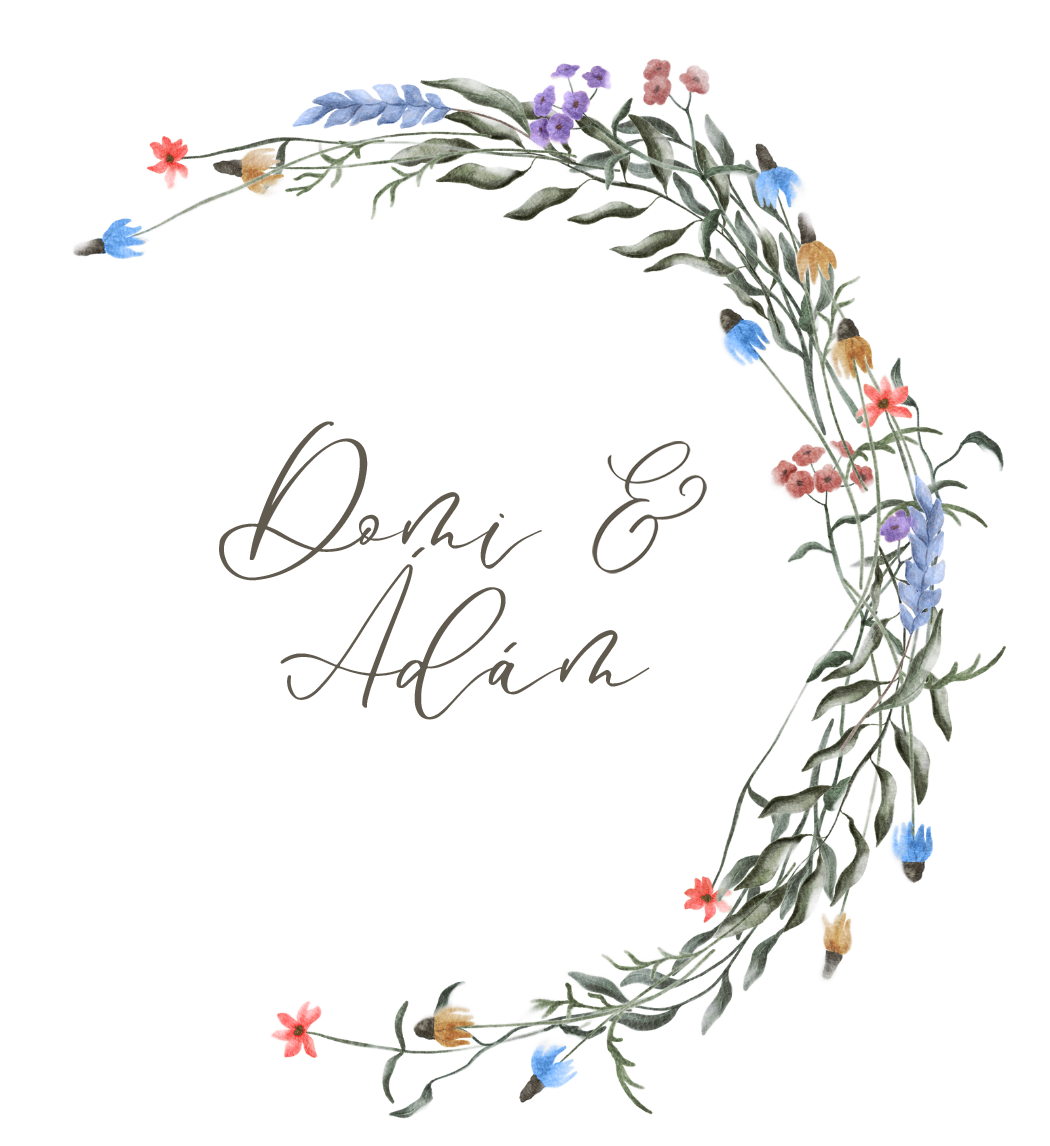
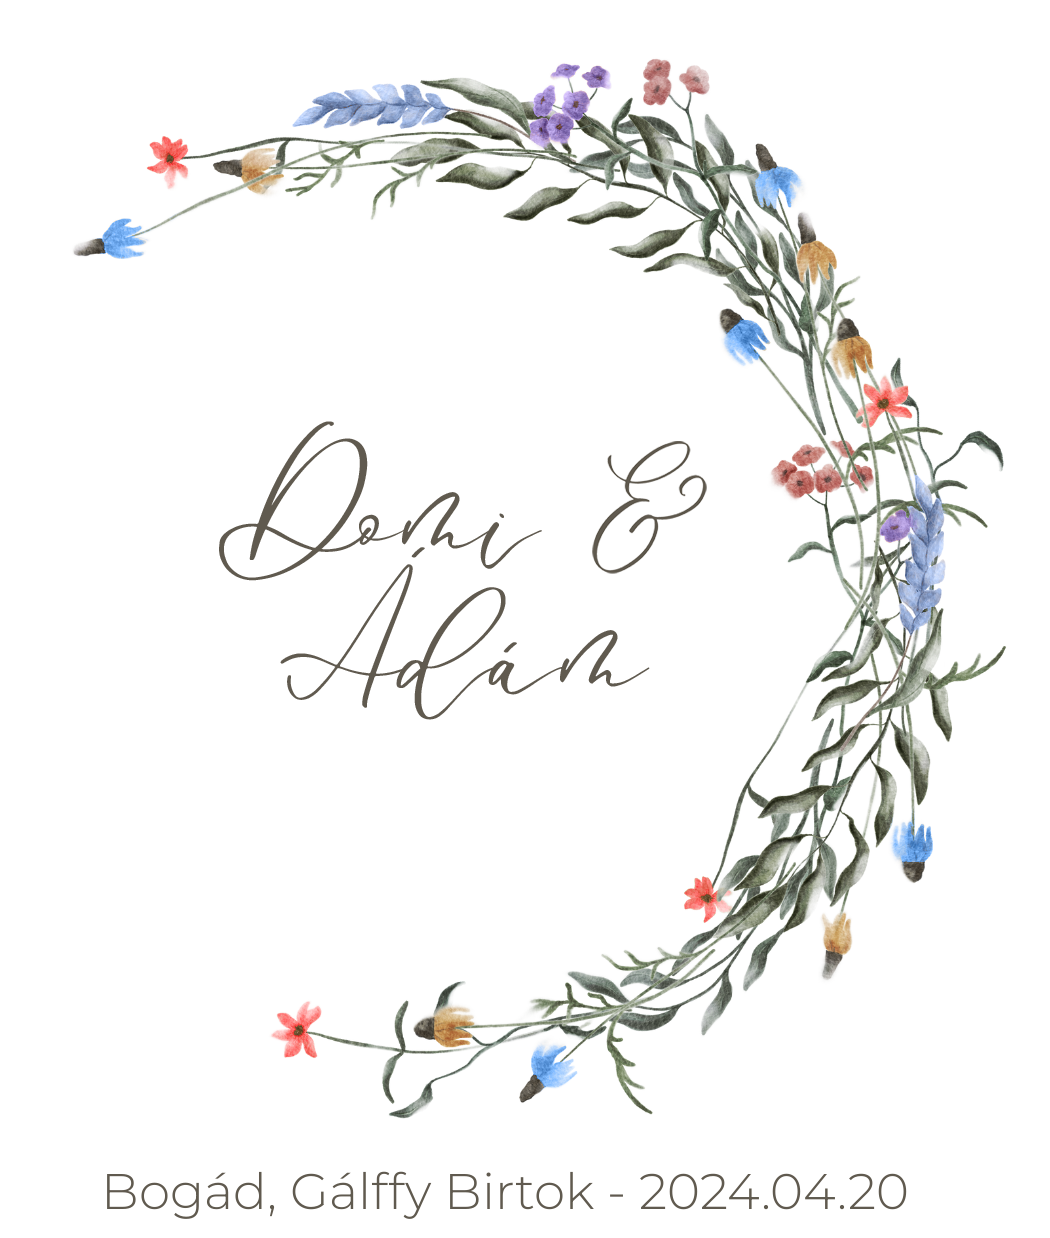
Changes #1

Changed region(s): [[0.0914, 0.0305, 0.9752, 0.9773], [0.1829, 0.336, 0.6705, 0.6414], [0.061, 0.1527, 0.1524, 0.2443]]

diff --git a/src/App.js b/src/App.js
@@ -6,62 +6,14 @@ import {
   Music, Galery, Schedule, Responses, Service
 } from './pages';
 import './App.css';
-import save_the_date_image from './data/save_the_date.png';
-import { FcGoogle } from 'react-icons/fc';
 import { useStateContext } from './contexts/ContextProvider';
-import { auth, googleAuthProvider } from "./components/FirebaseApp";
-import { signInWithPopup } from "firebase/auth";
-import jwt_decode from "jwt-decode";
-import { useEffect } from 'react';
 import Seating from './pages/Seating';
 
 
 
 function App() {
   const queryClient = new QueryClient();
-  const { token, setToken, activeMenu } = useStateContext();
-  
-  useEffect(() => {
-    const tokenString = sessionStorage.getItem('token');
-    if (tokenString != null){
-      const userToken = JSON.parse(tokenString);
-      var decoded = jwt_decode(userToken);
-      setToken(decoded);
-    }
-  }, [setToken])
-
-  function storeToken(user) {
-    user.getIdToken().then((result) => {
-      sessionStorage.setItem('token', JSON.stringify(result));
-      var decoded = jwt_decode(result);
-      setToken(decoded);
-    })
-  }
-
-  if (token == null) {
-    return (<div>
-      <div className='flex flex-col items-center p-10'>
-        <div className='flex w-full xl:w-3/4 justify-center'>
-          <img src={save_the_date_image} className='' alt='' />
-        </div>
-        <div className='flex w-full xl:w-3/4 justify-center'>
-          <button type="button" onClick={() => {
-            signInWithPopup(auth, googleAuthProvider).then((result) => {
-              console.log(result.user);
-              storeToken(result.user);
-            });
-          }} className='flex items-center justify-center w-48 
-    p-3 m-2  text-center bg-gray-50 transition-colors
-    duration-200 transform border rounded-lg
-    hover:bg-gray-200 drop-shadow-md'>
-            <span className='flex items-center p-1'><FcGoogle className='mr-3 text-2xl' /> Bejelentkezés</span>
-          </button>
-        </div>
-      </div>
-    </div>)
-  }
-
-
+  const { activeMenu } = useStateContext();
 
   return (
     <QueryClientProvider client={queryClient}>

diff --git a/src/pages/SaveTheDate.jsx b/src/pages/SaveTheDate.jsx
@@ -3,14 +3,25 @@ import save_the_date_image from '../data/save_the_date_2.png';
 // import domiadam_2 from '../data/2.png';
 // import domiadam_3 from '../data/3.png';
 
-function SaveTheDate(){
+function SaveTheDate() {
   return (
     <div className='flex flex-col items-center'>
       <div className='flex w-full justify-center mb-5'>
-        <img src={save_the_date_image} className='w-3/4 md:w-2/5' alt=''/>
+        <img src={save_the_date_image} className='w-3/5 md:w-3/5 lg:w-1/2 xl:w-1/3' />
       </div>
-      <div className='flex w-full md:w-2/3  text-center'>
-        Lorem, ipsum dolor sit amet consectetur adipisicing elit. Modi est fugiat suscipit. Ipsum autem quas, porro esse velit ipsa numquam illum explicabo odit labore, doloremque et consectetur dicta tempore alias!
+      <div className='flex flex-col w-full md:w-2/3 text-center p-5 montserrat text-lg'>
+        <div className='pb-3 font-bold'>
+          Kedves Családunk és Barátaink!
+        </div>
+        <div className='pb-3'>
+          Örömmel tudjatjuk veletek, hogy (újra) kimondjuk a boldogító igent. Ezen apropóból szeretettel várunk benneteket 2024. április 20-án a bogádi Gállfy Birtokon tartandó esküvőnkre.
+        </div>
+        <div className='pb-3 font-bold'>
+          Részvételi szándékotokat és speciális étkezési igényeteket kérjük, hogy a "Visszejelzés" menüpont alatt jelezzétek!
+        </div>
+        <div className='mb-5'>
+          Alig várjuk, hogy együtt ünnepeljünk Veletek! 🥰
+        </div>
       </div>
     </div>
   )

diff --git a/src/index.css b/src/index.css
@@ -1,10 +1,17 @@
 @import url('https://fonts.googleapis.com/css2?family=Open+Sans:wght@400;500;600;700&display=swap');
+@import url('https://fonts.googleapis.com/css2?family=Montserrat:ital,wght@0,100..900;1,100..900&display=swap');
 
 body{
     margin: 0;
     padding:0;
     font-family: "Open Sans", sans-serif;
 }
+
+.montserrat{
+    font-family: "Montserrat", sans-serif;
+    font-weight: 400;
+    font-style: normal;
+  }
 
 @tailwind base;
 @tailwind components;
